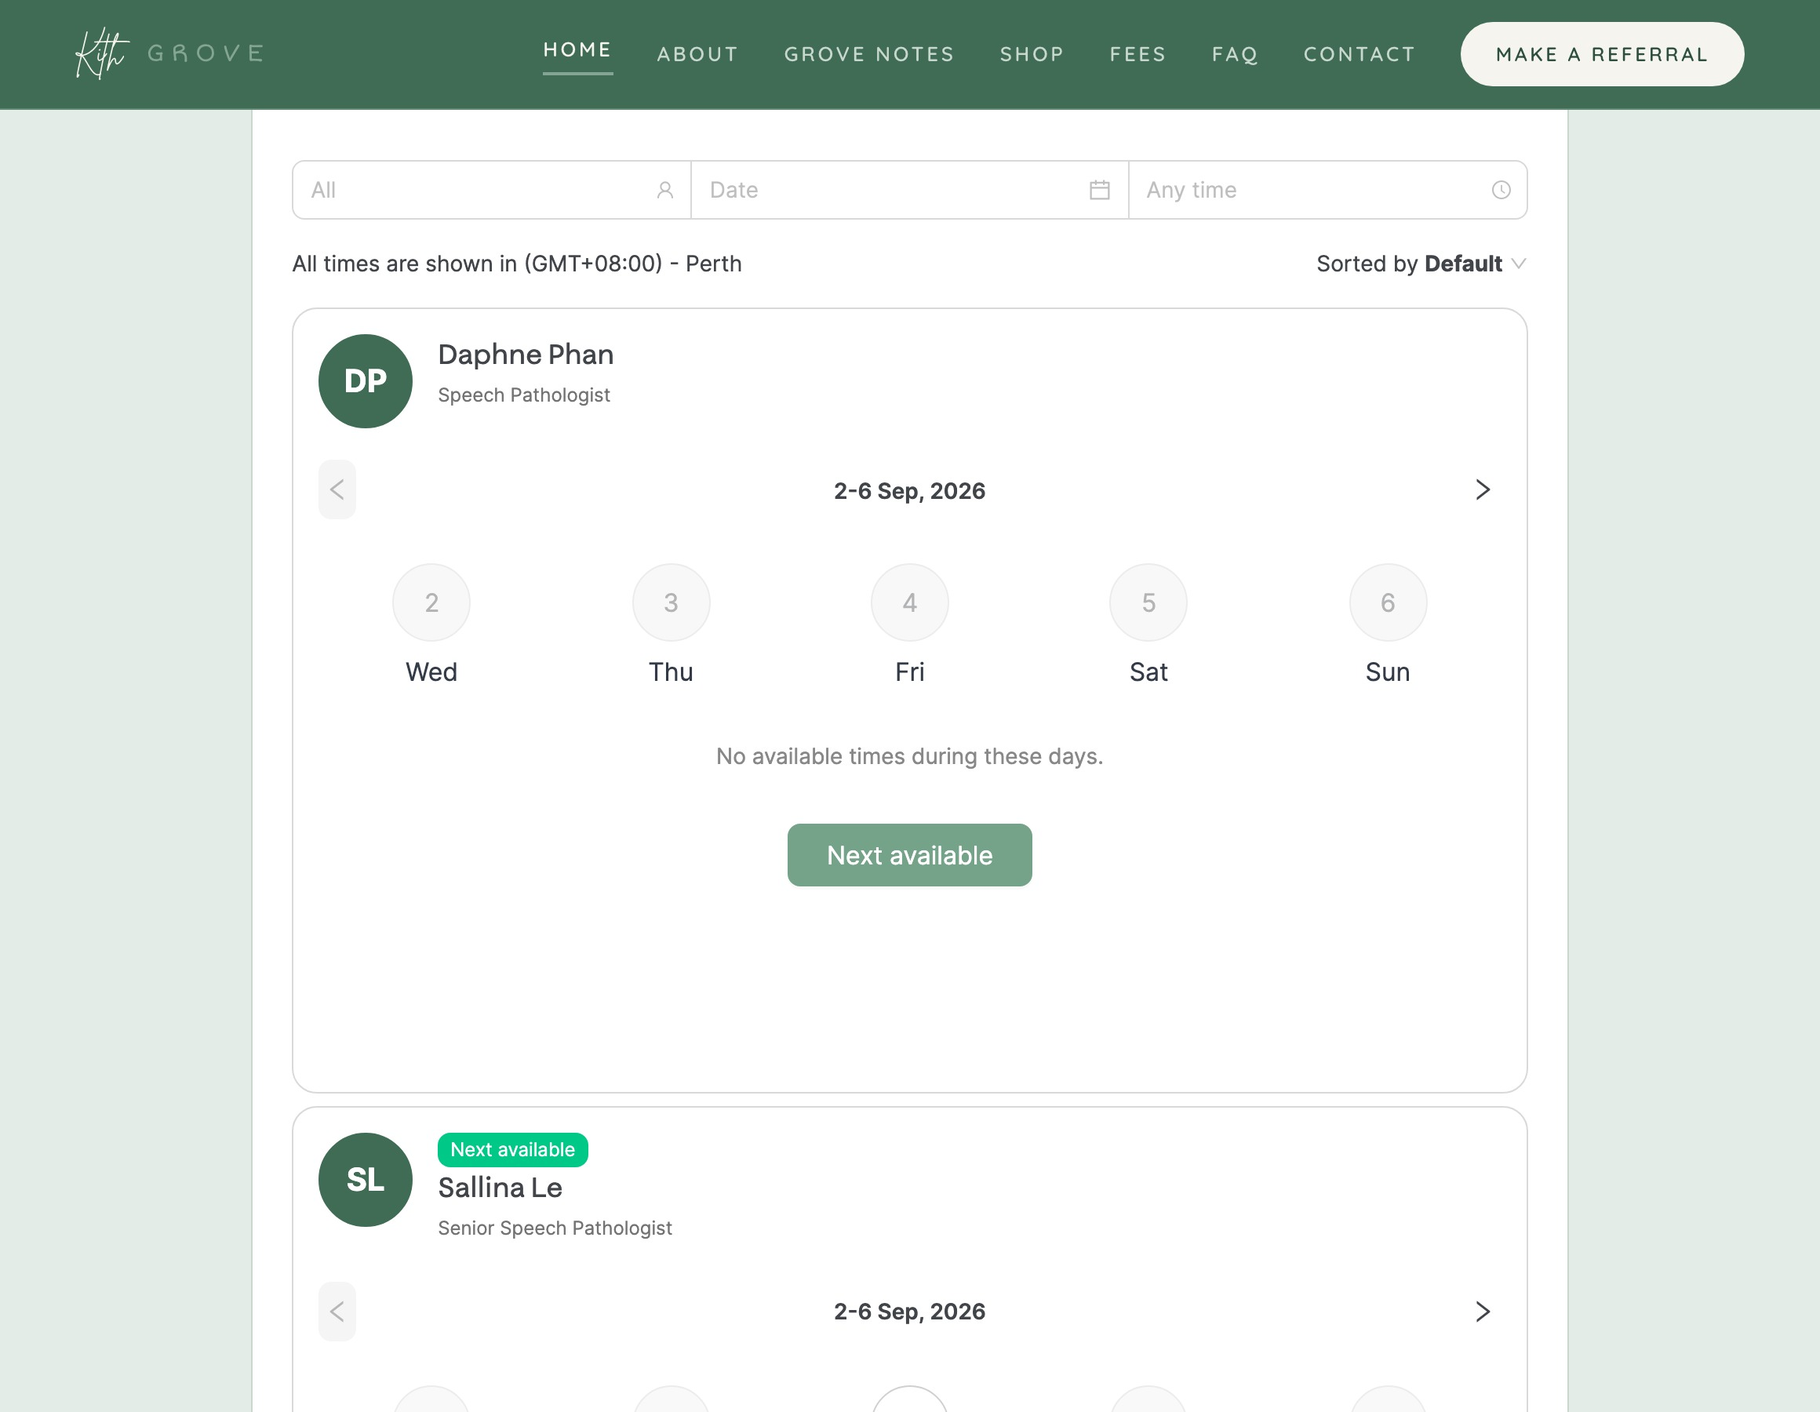
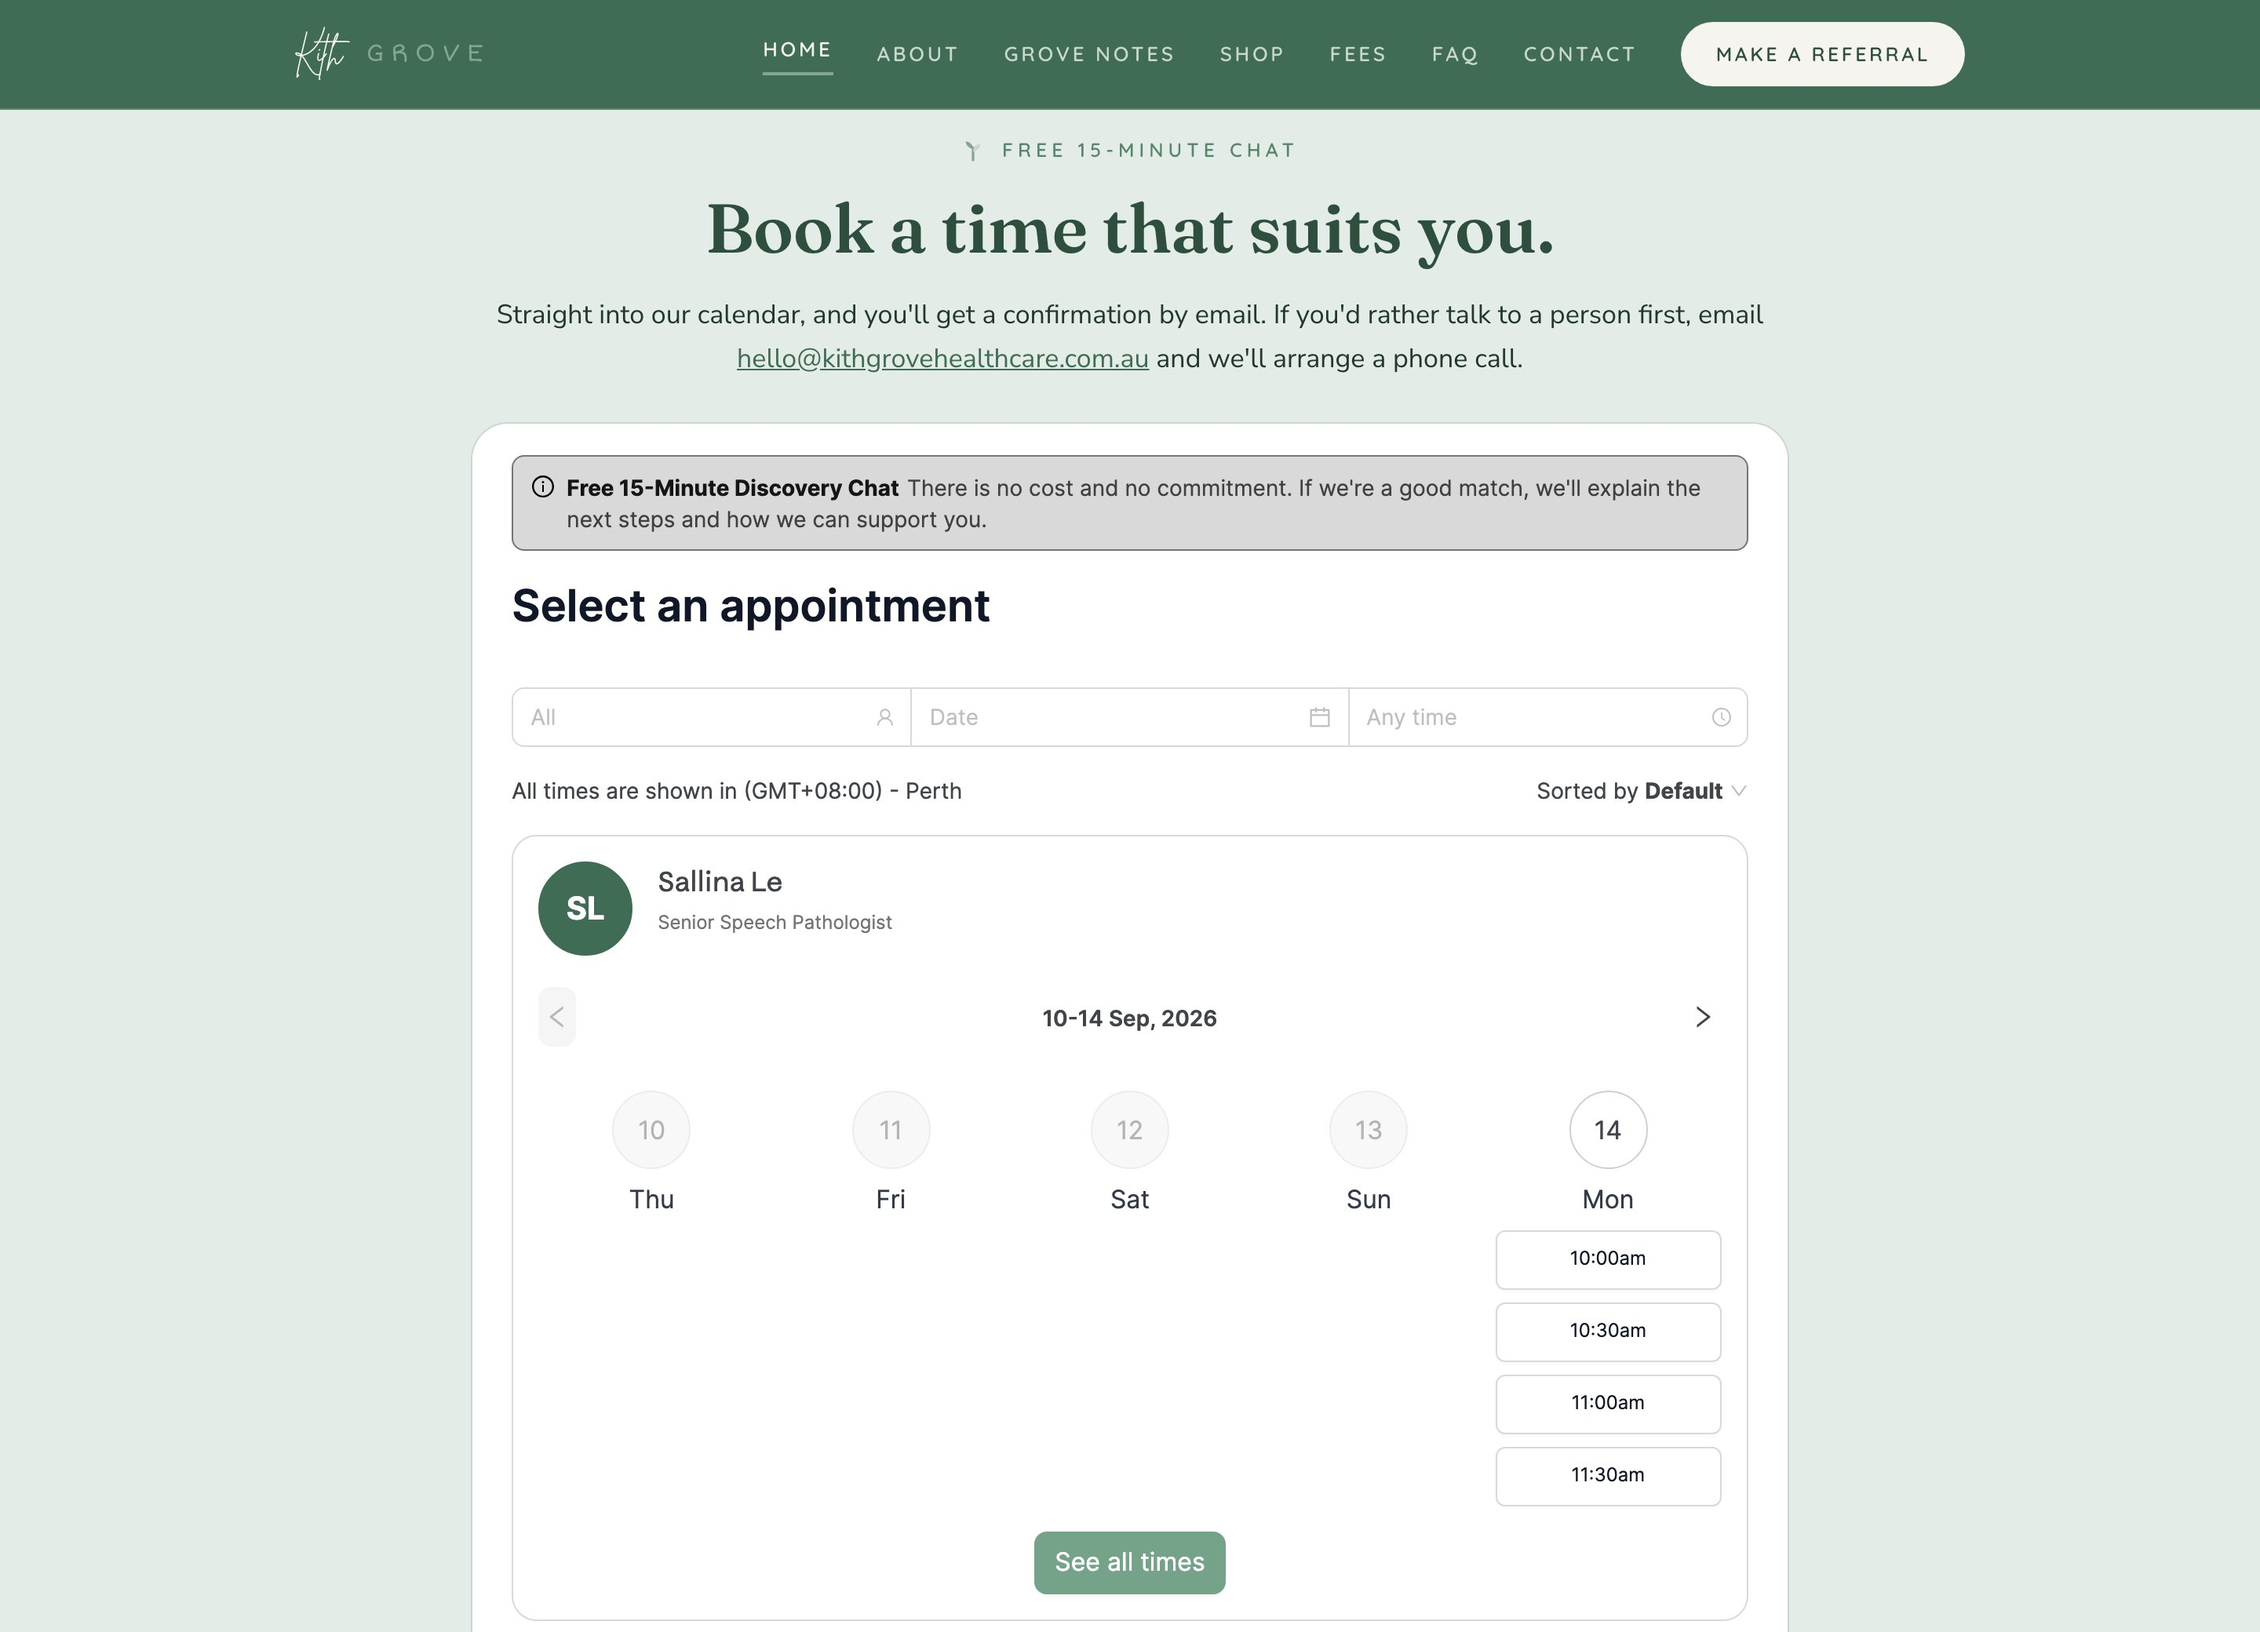
Kith Grove: make the two plates say what the copy next to them says
Both open items from the last commit, and both were the screenshot arguing
against its own caption.

  Booking   the plate showed "No available times during these days" beside a
            paragraph about showing real available times instead of a form.
            The widget opens on the current week, which is usually empty, so
            the capture now clicks through to the first week that has any and
            lands on real fifteen-minute slots - 10:00, 10:30, 11:00, 11:30 -
            framed to end just under "See all times".
  Team      "Faces before credentials" sat over a band with no faces in it.
            The photographs were there all along, in the story section rather
            than the one that was captured, so that is the section now: what
            Kith and Grove mean, beside a photograph of Sallina and Daphne.

Alt text on both now describes what is actually in the frame.

Also: where a heading and its copy stack in the same column - a split, the
phone panel - nothing set a gap between them and they ran together. Scoped so
it does not reach .pj-said, where the two sit in separate columns and the
flush baseline is the point.

The crop check earned itself: the first attempt at this commit failed one of
its two substitutions, left both plates framed at the old ratios, and the
check named both files and the exact percentage each was off.

diff --git a/kith-grove.html b/kith-grove.html
@@ -119,8 +119,8 @@
         <p class="pj-p" data-rise style="--d:.18s">Daphne and Sallina are introduced by name and photograph, early, because a parent handing over their child wants to know who that is. The qualifications are all there. They are simply not the opening argument.</p>
       </div>
       <div class="s-vis">
-        <figure class="pj-plate centre" style="aspect-ratio:29/10" data-clip>
-          <img src="work/kith-team.jpg" alt="“Say hello to Daphne and Sallina”, the practitioners introduced by name and photograph." width="2320" height="800" loading="lazy" decoding="async">
+        <figure class="pj-plate" style="aspect-ratio:2880/1800" data-clip>
+          <img src="work/kith-team.jpg" alt="The Kith Grove story section: what Kith and Grove mean, beside a photograph of Sallina and Daphne." width="2880" height="1800" loading="lazy" decoding="async">
         </figure>
         <p class="pj-cap">Faces before credentials</p>
       </div>
@@ -145,8 +145,8 @@
 
   <div class="pj-stage">
     <div class="pj-stage-in">
-      <figure class="pj-plate" style="aspect-ratio:2320/1800" data-clip>
-        <img src="work/kith-book.jpg" alt="“Book a time that suits you”, a calendar of real appointment times on the Kith Grove site." width="2320" height="1800" loading="lazy" decoding="async">
+      <figure class="pj-plate" style="aspect-ratio:2880/2080" data-clip>
+        <img src="work/kith-book.jpg" alt="“Book a time that suits you”: the Kith Grove booking calendar showing real fifteen-minute slots at 10:00, 10:30, 11:00 and 11:30." width="2880" height="2080" loading="lazy" decoding="async">
       </figure>
       <p class="pj-cap" data-rise>Real times, at the point of deciding</p>
     </div>

diff --git a/site.css b/site.css
@@ -1031,6 +1031,10 @@ legend{padding:0}
   max-width:20ch}
 .pj-p{font-size:var(--t-body);line-height:1.68;color:var(--ink-2);max-width:38ch}
 .pj-p + .pj-p{margin-top:1em}
+/* Where a heading and its copy stack in the same column - a split, the phone
+   panel - nothing was setting a gap and they ran together. In .pj-said they
+   sit in separate columns, so this deliberately does not reach them. */
+.pj-h + .pj-p,.pj-h + .spec-list,.pj-h + .tiers{margin-top:clamp(.85rem,1.6vw,1.25rem)}
 
 /* a sparse text screen: heading left, the argument in two columns beneath */
 .pj-said{display:grid;grid-template-columns:minmax(0,1fr) minmax(0,1.05fr);
